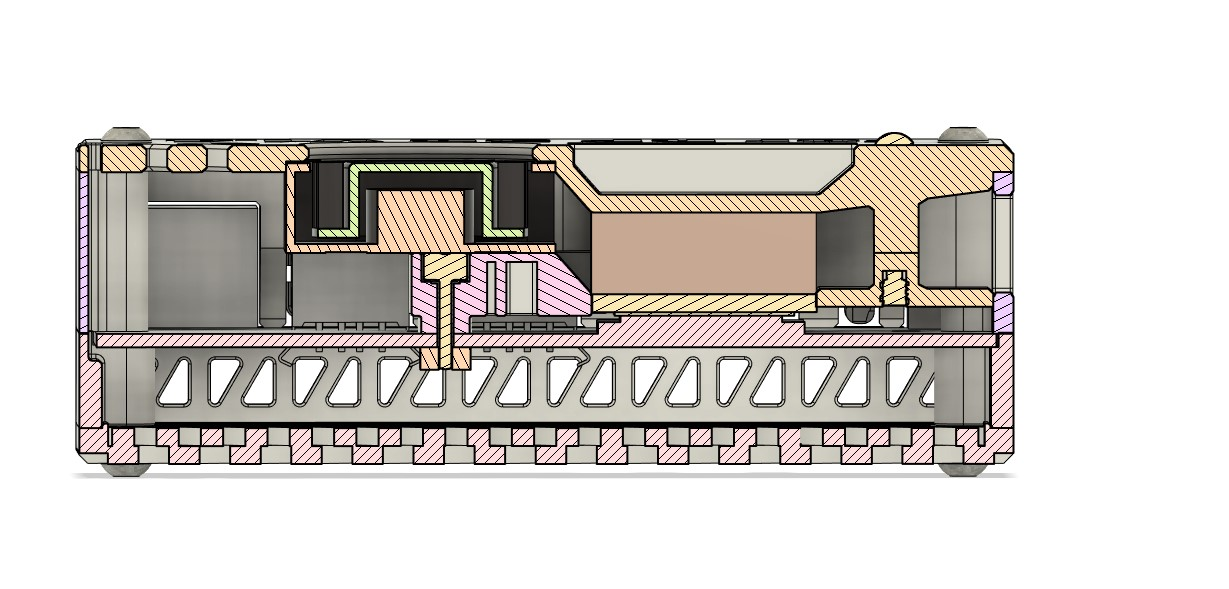
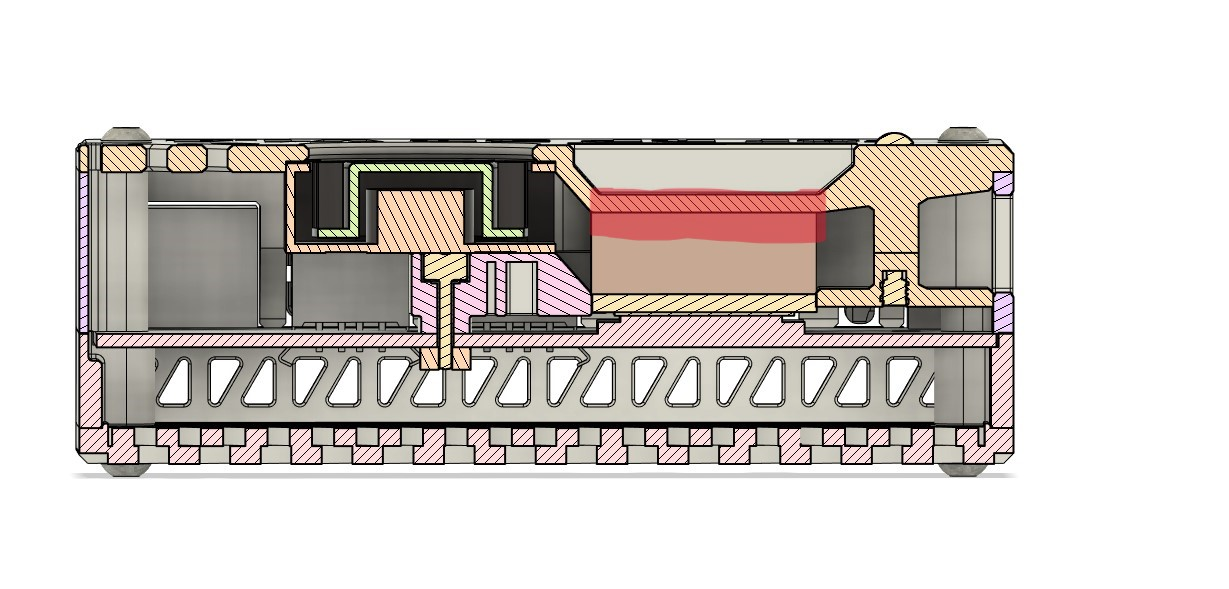
更新readme

Changed region(s): [[0.4638, 0.3056, 0.6802, 0.4278]]

diff --git a/README.md b/README.md
@@ -1,4 +1,5 @@
 # keke4rockpi5b //**个人完全验证**//
+
 ## 给RockPi 5B V1.4硬件版本用的壳壳
 
 ![rp1](/img/rp1.jpg "图")
@@ -17,21 +18,29 @@
 
 ![风道剖视图](/img/P3.jpg "风道剖视图")
 
-# 物料购买注意事项
+## 物料购买注意事项
+
 1. 散热鳍片25x25x11
-2.  滚花螺母尺寸M3 H4 D4.5
+2. 滚花螺母尺寸M3 H4 D4.5
     滚花螺母尺寸M3 H4 D4.5
     滚花螺母尺寸M3 H4 D4.5
-    重要的事情嗦三遍
+    重要的事情嗦三遍（用外径5的大了容易顶到附近的小电容）
 3. 摄像头，屏幕，GPIO排针都需要线材引出
 4. 无线网卡需要用粘上去的那种天线
+5. 如果使用硅脂导热，需要购买3M的VHB双面胶贴在上盖压住散热片的位置，如上面最后一张图红色部分所示
+6. 需要脚垫可淘宝搜索“橡胶脚垫 机箱仪器”，然后买内径3的
 
-# FDM注意事项（实时更新，0.4线宽，0.2层高）：
+![脚垫图](/img/jiaodian.jpg "脚垫图")
+
+## FDM注意事项（实时更新，0.4线宽，0.2层高）
+
 1. 下盖建议只打两层壁，不然搭桥会出现一点问题
 2. 应该都不需要打支撑，有的话qq/issue见
 
-# 关于风扇脚本
-1. 需要sudo权限，要自启的话需要自行操作一下
-2. 默认用的开关模式，有些烂风扇（鹏达蓝图的“静音”3010）在某个转速区间下会产生相当大的震动，高于温度墙开机，低于期望温度关闭，期望温度应当低于温度墙。
-3. 需要根据风扇的情况设定 最大转速值，最小转速值，死区值 都在py开头。就不单独开个文件写了
-4. 还有个比例控制，在期望温度和温度墙之间比例调节转速，这就意味着理论上讲如果需要设定风扇最小转速高于实际死区才能达到期望温度，即在低于或者接近期望温度时风扇也会保持一定转速，参考pid控制没有i的情况。但是实际情况测温还有温度传导有个延迟环节，所以系统是可能能震荡到目标值的。
+## 关于风扇脚本
+
+需要sudo权限，要自启的话需要自行操作一下
+
+运行风扇脚本：
+`cd $HOME/keke4rockpi5b/ctrlscript/fanctrl
+sudo python3 fanctrl.py`
